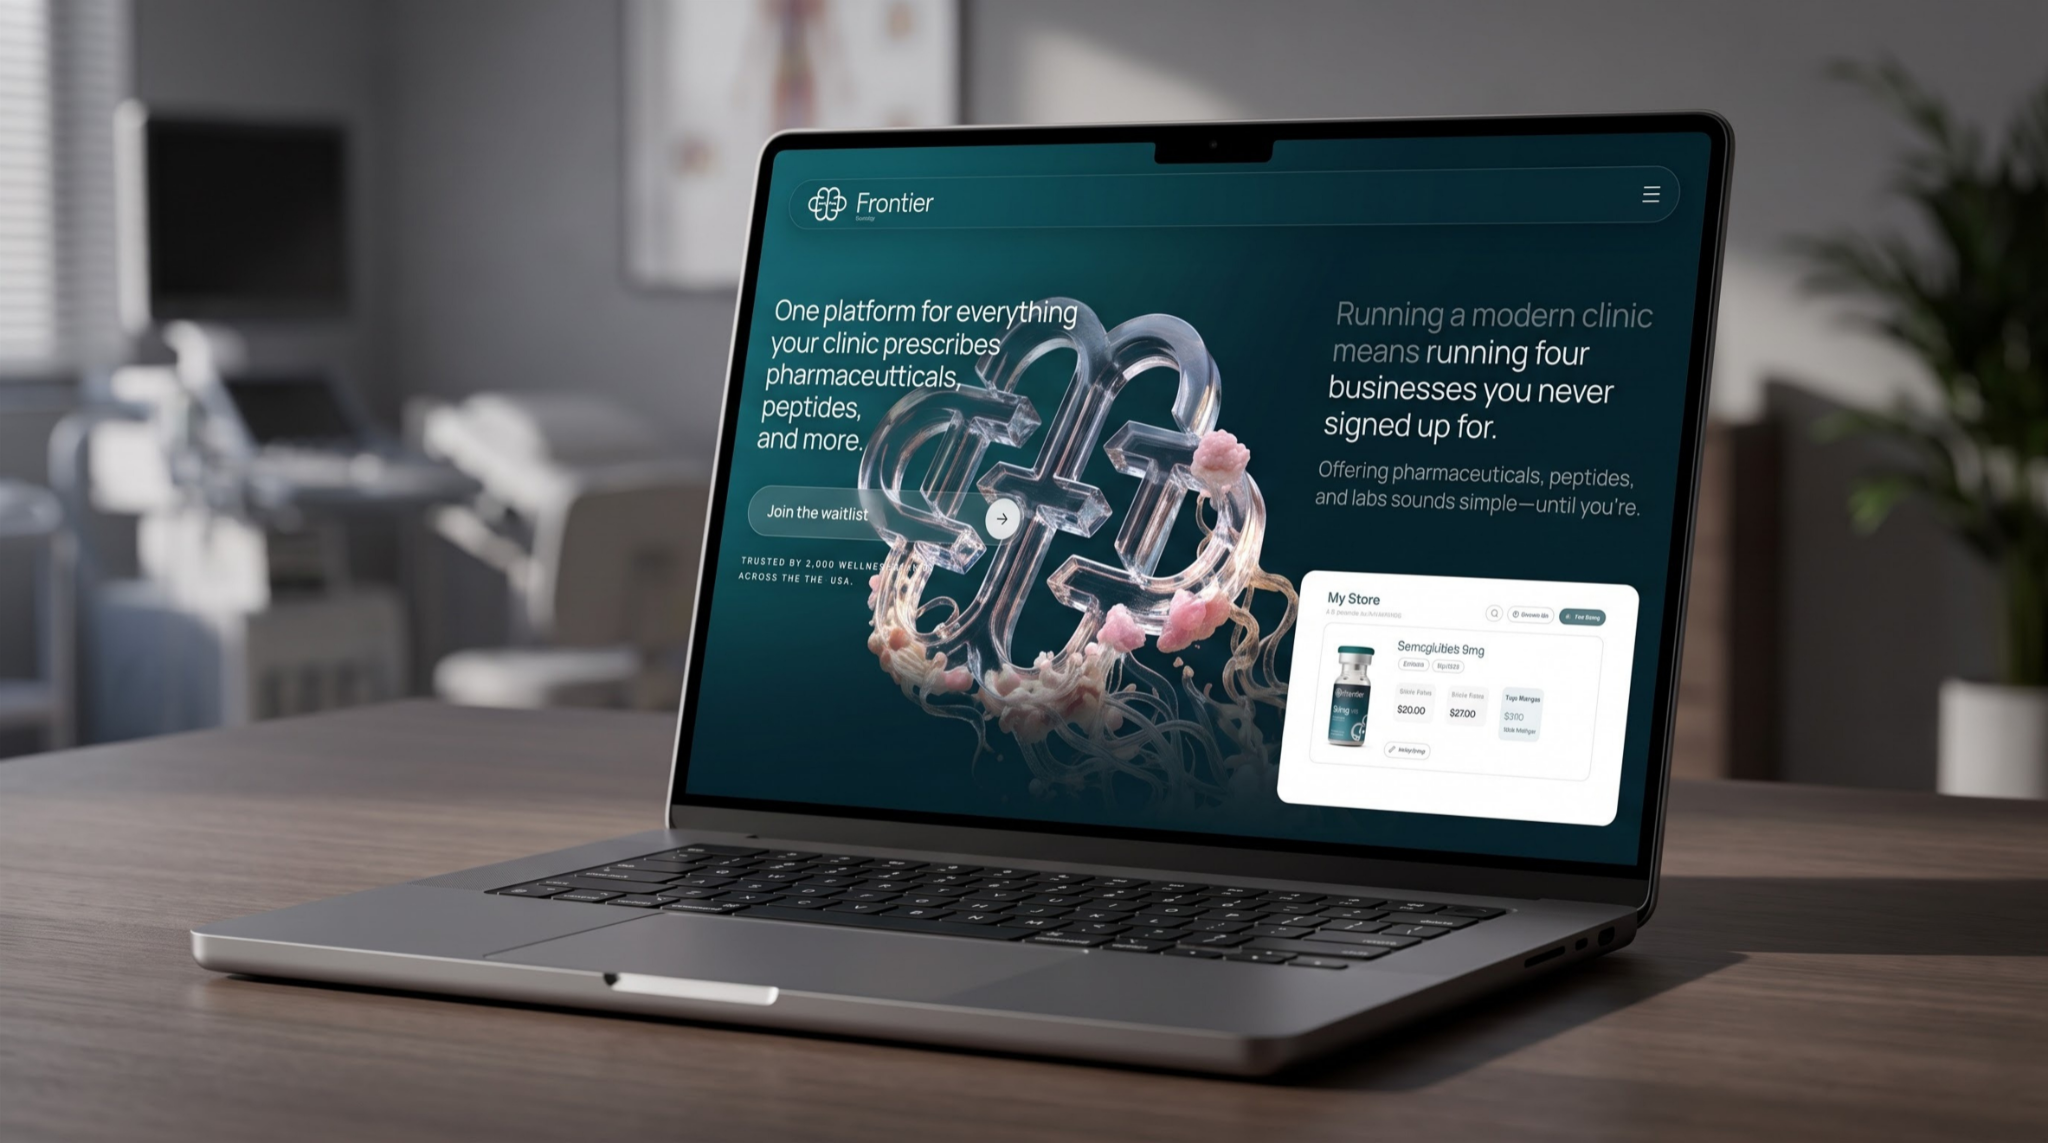
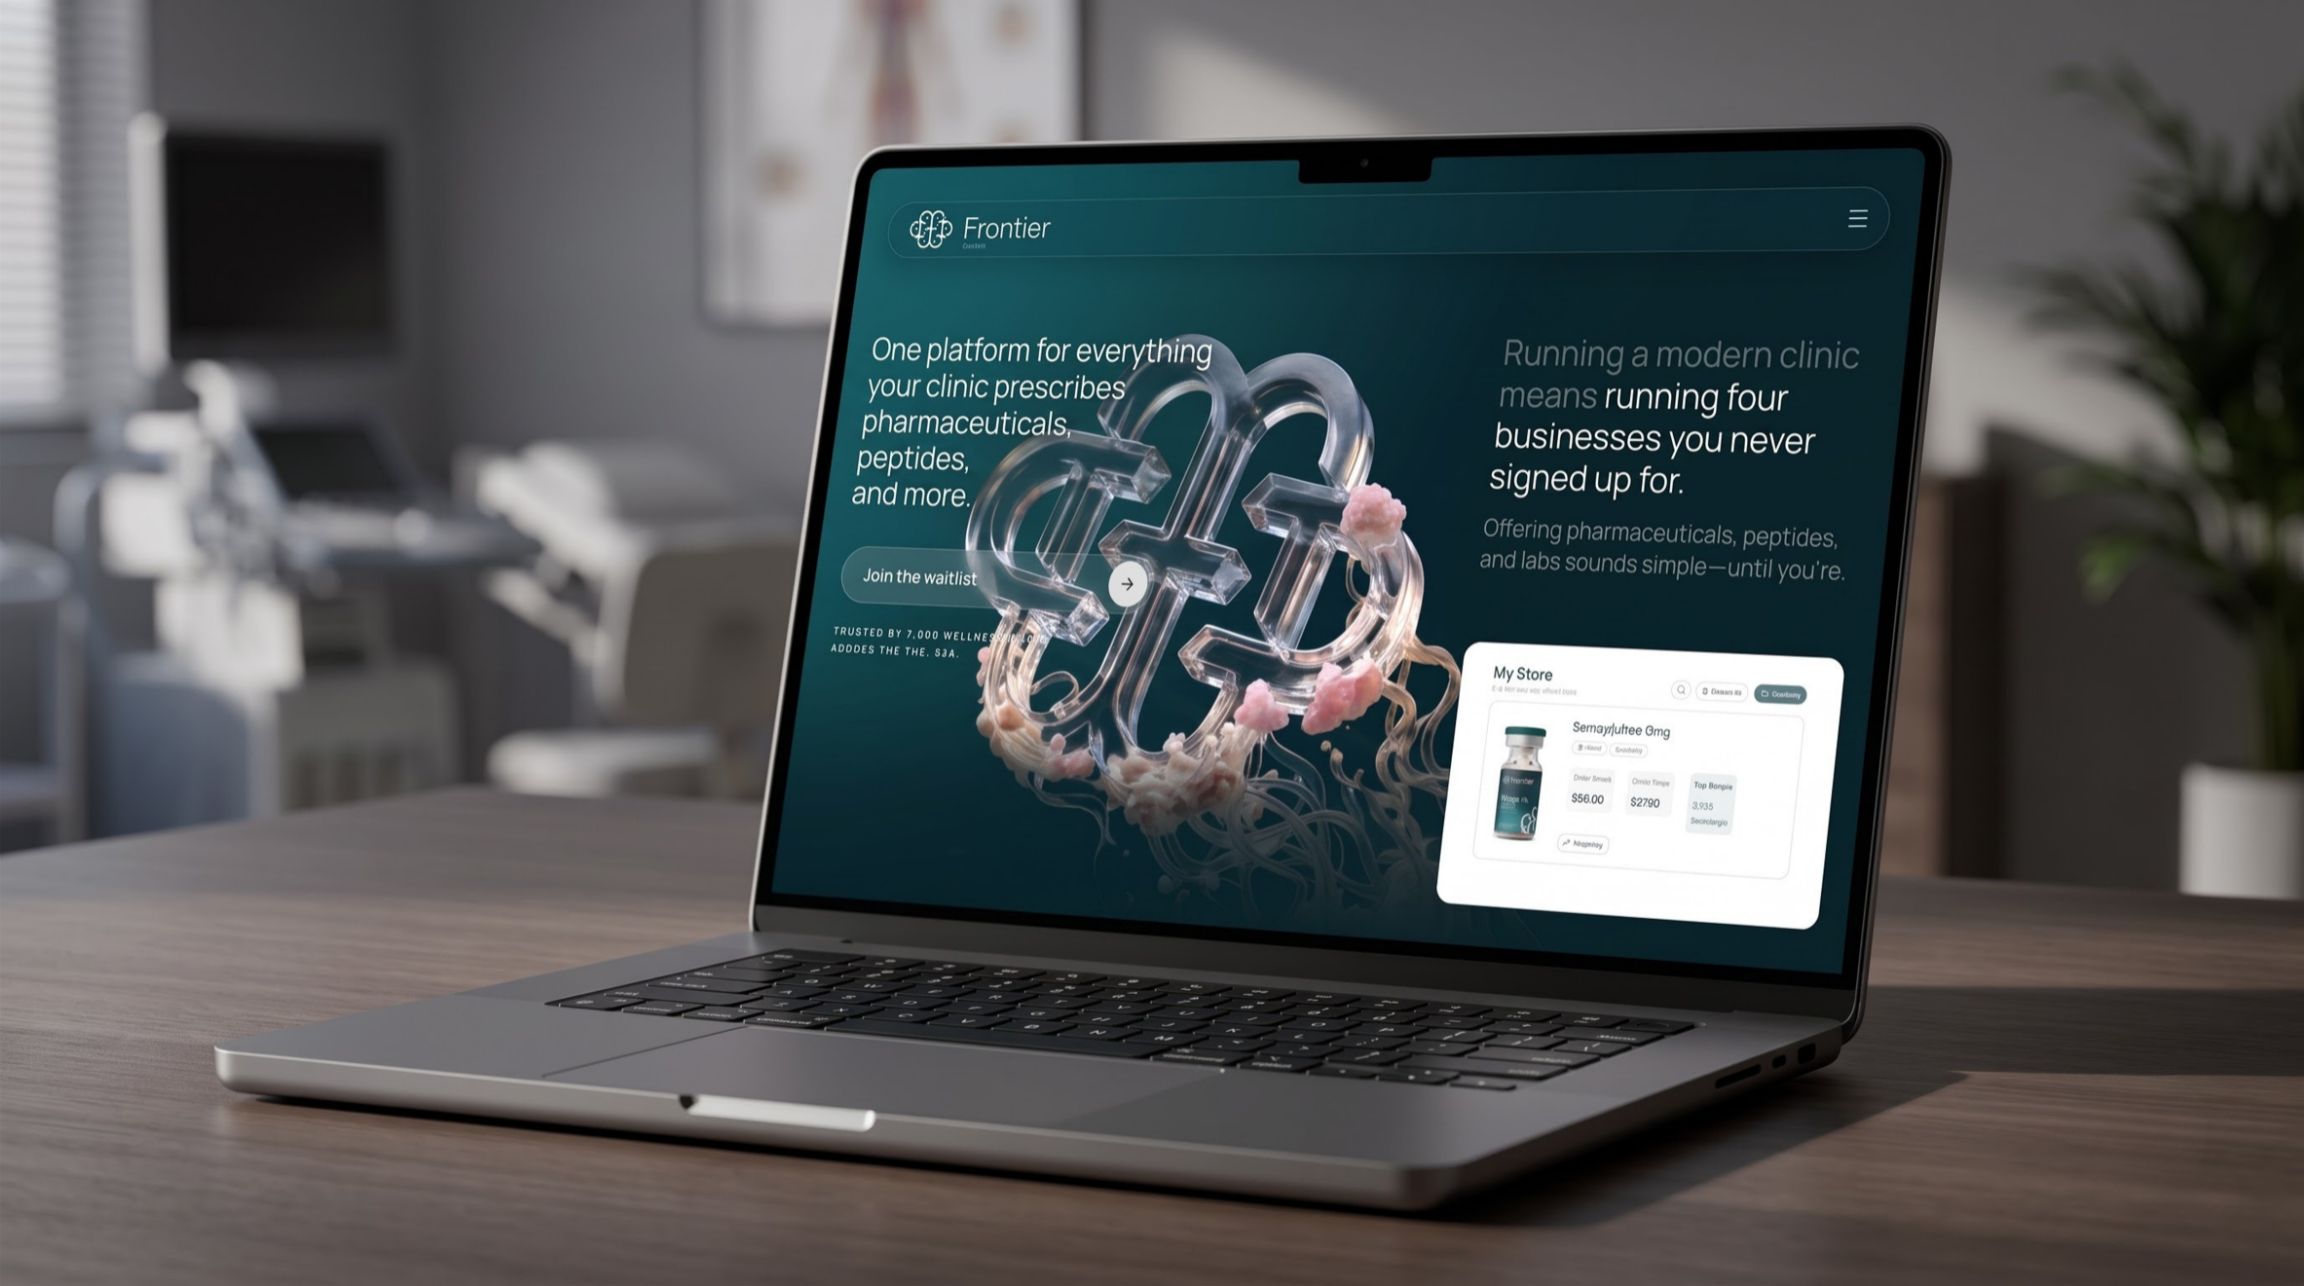
preloader

diff --git a/app/globals.css b/app/globals.css
@@ -3761,6 +3761,243 @@ html:has(.lh-hud) .site-nav-bar {
   }
 }
 
+/* From Uiverse.io by Nawsome — site-wide first-load preloader */
+html:has(.site-preloader:not(.is-hiding)) {
+  overflow: hidden;
+}
+
+.site-preloader {
+  position: fixed;
+  inset: 0;
+  z-index: 10000;
+  display: grid;
+  place-items: center;
+  background: var(--color-bg);
+  transition: opacity 480ms cubic-bezier(0.22, 1, 0.36, 1),
+    visibility 480ms linear;
+}
+
+.site-preloader.is-hiding {
+  opacity: 0;
+  visibility: hidden;
+  pointer-events: none;
+}
+
+.site-preloader .pl {
+  width: 6em;
+  height: 6em;
+}
+
+.site-preloader .pl__ring {
+  animation: ringA 2s linear infinite;
+}
+
+.site-preloader .pl__ring--a {
+  stroke: var(--color-primary);
+}
+
+.site-preloader .pl__ring--b {
+  animation-name: ringB;
+  stroke: var(--color-accent);
+}
+
+.site-preloader .pl__ring--c {
+  animation-name: ringC;
+  stroke: var(--color-secondary);
+}
+
+.site-preloader .pl__ring--d {
+  animation-name: ringD;
+  stroke: var(--color-primary-hover);
+}
+
+@keyframes ringA {
+  from,
+  4% {
+    stroke-dasharray: 0 660;
+    stroke-width: 20;
+    stroke-dashoffset: -330;
+  }
+
+  12% {
+    stroke-dasharray: 60 600;
+    stroke-width: 30;
+    stroke-dashoffset: -335;
+  }
+
+  32% {
+    stroke-dasharray: 60 600;
+    stroke-width: 30;
+    stroke-dashoffset: -595;
+  }
+
+  40%,
+  54% {
+    stroke-dasharray: 0 660;
+    stroke-width: 20;
+    stroke-dashoffset: -660;
+  }
+
+  62% {
+    stroke-dasharray: 60 600;
+    stroke-width: 30;
+    stroke-dashoffset: -665;
+  }
+
+  82% {
+    stroke-dasharray: 60 600;
+    stroke-width: 30;
+    stroke-dashoffset: -925;
+  }
+
+  90%,
+  to {
+    stroke-dasharray: 0 660;
+    stroke-width: 20;
+    stroke-dashoffset: -990;
+  }
+}
+
+@keyframes ringB {
+  from,
+  12% {
+    stroke-dasharray: 0 220;
+    stroke-width: 20;
+    stroke-dashoffset: -110;
+  }
+
+  20% {
+    stroke-dasharray: 20 200;
+    stroke-width: 30;
+    stroke-dashoffset: -115;
+  }
+
+  40% {
+    stroke-dasharray: 20 200;
+    stroke-width: 30;
+    stroke-dashoffset: -195;
+  }
+
+  48%,
+  62% {
+    stroke-dasharray: 0 220;
+    stroke-width: 20;
+    stroke-dashoffset: -220;
+  }
+
+  70% {
+    stroke-dasharray: 20 200;
+    stroke-width: 30;
+    stroke-dashoffset: -225;
+  }
+
+  90% {
+    stroke-dasharray: 20 200;
+    stroke-width: 30;
+    stroke-dashoffset: -305;
+  }
+
+  98%,
+  to {
+    stroke-dasharray: 0 220;
+    stroke-width: 20;
+    stroke-dashoffset: -330;
+  }
+}
+
+@keyframes ringC {
+  from {
+    stroke-dasharray: 0 440;
+    stroke-width: 20;
+    stroke-dashoffset: 0;
+  }
+
+  8% {
+    stroke-dasharray: 40 400;
+    stroke-width: 30;
+    stroke-dashoffset: -5;
+  }
+
+  28% {
+    stroke-dasharray: 40 400;
+    stroke-width: 30;
+    stroke-dashoffset: -175;
+  }
+
+  36%,
+  58% {
+    stroke-dasharray: 0 440;
+    stroke-width: 20;
+    stroke-dashoffset: -220;
+  }
+
+  66% {
+    stroke-dasharray: 40 400;
+    stroke-width: 30;
+    stroke-dashoffset: -225;
+  }
+
+  86% {
+    stroke-dasharray: 40 400;
+    stroke-width: 30;
+    stroke-dashoffset: -395;
+  }
+
+  94%,
+  to {
+    stroke-dasharray: 0 440;
+    stroke-width: 20;
+    stroke-dashoffset: -440;
+  }
+}
+
+@keyframes ringD {
+  from,
+  8% {
+    stroke-dasharray: 0 440;
+    stroke-width: 20;
+    stroke-dashoffset: 0;
+  }
+
+  16% {
+    stroke-dasharray: 40 400;
+    stroke-width: 30;
+    stroke-dashoffset: -5;
+  }
+
+  36% {
+    stroke-dasharray: 40 400;
+    stroke-width: 30;
+    stroke-dashoffset: -175;
+  }
+
+  44%,
+  50% {
+    stroke-dasharray: 0 440;
+    stroke-width: 20;
+    stroke-dashoffset: -220;
+  }
+
+  58% {
+    stroke-dasharray: 40 400;
+    stroke-width: 30;
+    stroke-dashoffset: -225;
+  }
+
+  78% {
+    stroke-dasharray: 40 400;
+    stroke-width: 30;
+    stroke-dashoffset: -395;
+  }
+
+  86%,
+  to {
+    stroke-dasharray: 0 440;
+    stroke-width: 20;
+    stroke-dashoffset: -440;
+  }
+}
+
 /* ─────────────────────────────────────────────────────────────────────────── */
 /* React Bits splash cursor — site-wide fluid trail (desktop, fine pointer) */
 

diff --git a/components/fx/SitePreloader.tsx b/components/fx/SitePreloader.tsx
@@ -1,0 +1,113 @@
+"use client";
+
+import { useEffect, useState } from "react";
+
+const MIN_VISIBLE_MS = 1100;
+const MAX_WAIT_MS = 2400;
+
+export function SitePreloader() {
+  const [hiding, setHiding] = useState(false);
+  const [gone, setGone] = useState(false);
+
+  useEffect(() => {
+    const reduced = window.matchMedia("(prefers-reduced-motion: reduce)").matches;
+    const started = performance.now();
+    let finished = false;
+    let minTimer = 0;
+    let maxTimer = 0;
+
+    const dismiss = () => {
+      if (finished) return;
+      finished = true;
+      window.clearTimeout(minTimer);
+      window.clearTimeout(maxTimer);
+      setHiding(true);
+    };
+
+    if (reduced) {
+      dismiss();
+      return;
+    }
+
+    const tryDismiss = () => {
+      const remaining = Math.max(0, MIN_VISIBLE_MS - (performance.now() - started));
+      minTimer = window.setTimeout(dismiss, remaining);
+    };
+
+    if (document.readyState === "complete") {
+      tryDismiss();
+    } else {
+      window.addEventListener("load", tryDismiss, { once: true });
+    }
+
+    maxTimer = window.setTimeout(dismiss, MAX_WAIT_MS);
+
+    return () => {
+      finished = true;
+      window.clearTimeout(minTimer);
+      window.clearTimeout(maxTimer);
+      window.removeEventListener("load", tryDismiss);
+    };
+  }, []);
+
+  if (gone) return null;
+
+  return (
+    <div
+      className={hiding ? "site-preloader is-hiding" : "site-preloader"}
+      role="status"
+      aria-live="polite"
+      aria-busy={!hiding}
+      onTransitionEnd={(event) => {
+        if (event.target === event.currentTarget && hiding) setGone(true);
+      }}
+    >
+      <span className="sr-only">Loading</span>
+      {/* From Uiverse.io by Nawsome */}
+      <svg className="pl" width="240" height="240" viewBox="0 0 240 240" aria-hidden="true">
+        <circle
+          className="pl__ring pl__ring--a"
+          cx="120"
+          cy="120"
+          r="105"
+          fill="none"
+          strokeWidth="20"
+          strokeDasharray="0 660"
+          strokeDashoffset="-330"
+          strokeLinecap="round"
+        />
+        <circle
+          className="pl__ring pl__ring--b"
+          cx="120"
+          cy="120"
+          r="35"
+          fill="none"
+          strokeWidth="20"
+          strokeDasharray="0 220"
+          strokeDashoffset="-110"
+          strokeLinecap="round"
+        />
+        <circle
+          className="pl__ring pl__ring--c"
+          cx="85"
+          cy="120"
+          r="70"
+          fill="none"
+          strokeWidth="20"
+          strokeDasharray="0 440"
+          strokeLinecap="round"
+        />
+        <circle
+          className="pl__ring pl__ring--d"
+          cx="155"
+          cy="120"
+          r="70"
+          fill="none"
+          strokeWidth="20"
+          strokeDasharray="0 440"
+          strokeLinecap="round"
+        />
+      </svg>
+    </div>
+  );
+}

diff --git a/app/layout.tsx b/app/layout.tsx
@@ -1,5 +1,6 @@
 import type { Metadata } from "next";
 import Script from "next/script";
+import { SitePreloader } from "@/components/fx/SitePreloader";
 import { SplashCursorLayer } from "@/components/fx/SplashCursorLayer";
 import { aeonik, barlowCondensed } from "@/lib/fonts";
 import "./globals.css";
@@ -30,8 +31,12 @@ export default function RootLayout({
         <Script id="strip-extension-attrs" strategy="beforeInteractive">
           {STRIP_EXTENSION_ATTRS}
         </Script>
+        <noscript>
+          <style>{`.site-preloader{display:none!important}`}</style>
+        </noscript>
         <SplashCursorLayer />
         {children}
+        <SitePreloader />
       </body>
     </html>
   );

diff --git a/lib/work-studies.ts b/lib/work-studies.ts
@@ -93,7 +93,7 @@ export const workStudies = [
     gallery: [
       {
         role: "film",
-        src: "/frontier-biomed/Peptide_vials_on_catalog_page_.jpg",
+        src: "/frontier-biomed/Peptide_vials_on_catalog_page_.png",
         alt: "Frontier BioMed peptide vials, Tesamorelin, BPC-157, and DSIP",
         caption: "Product line",
       },
